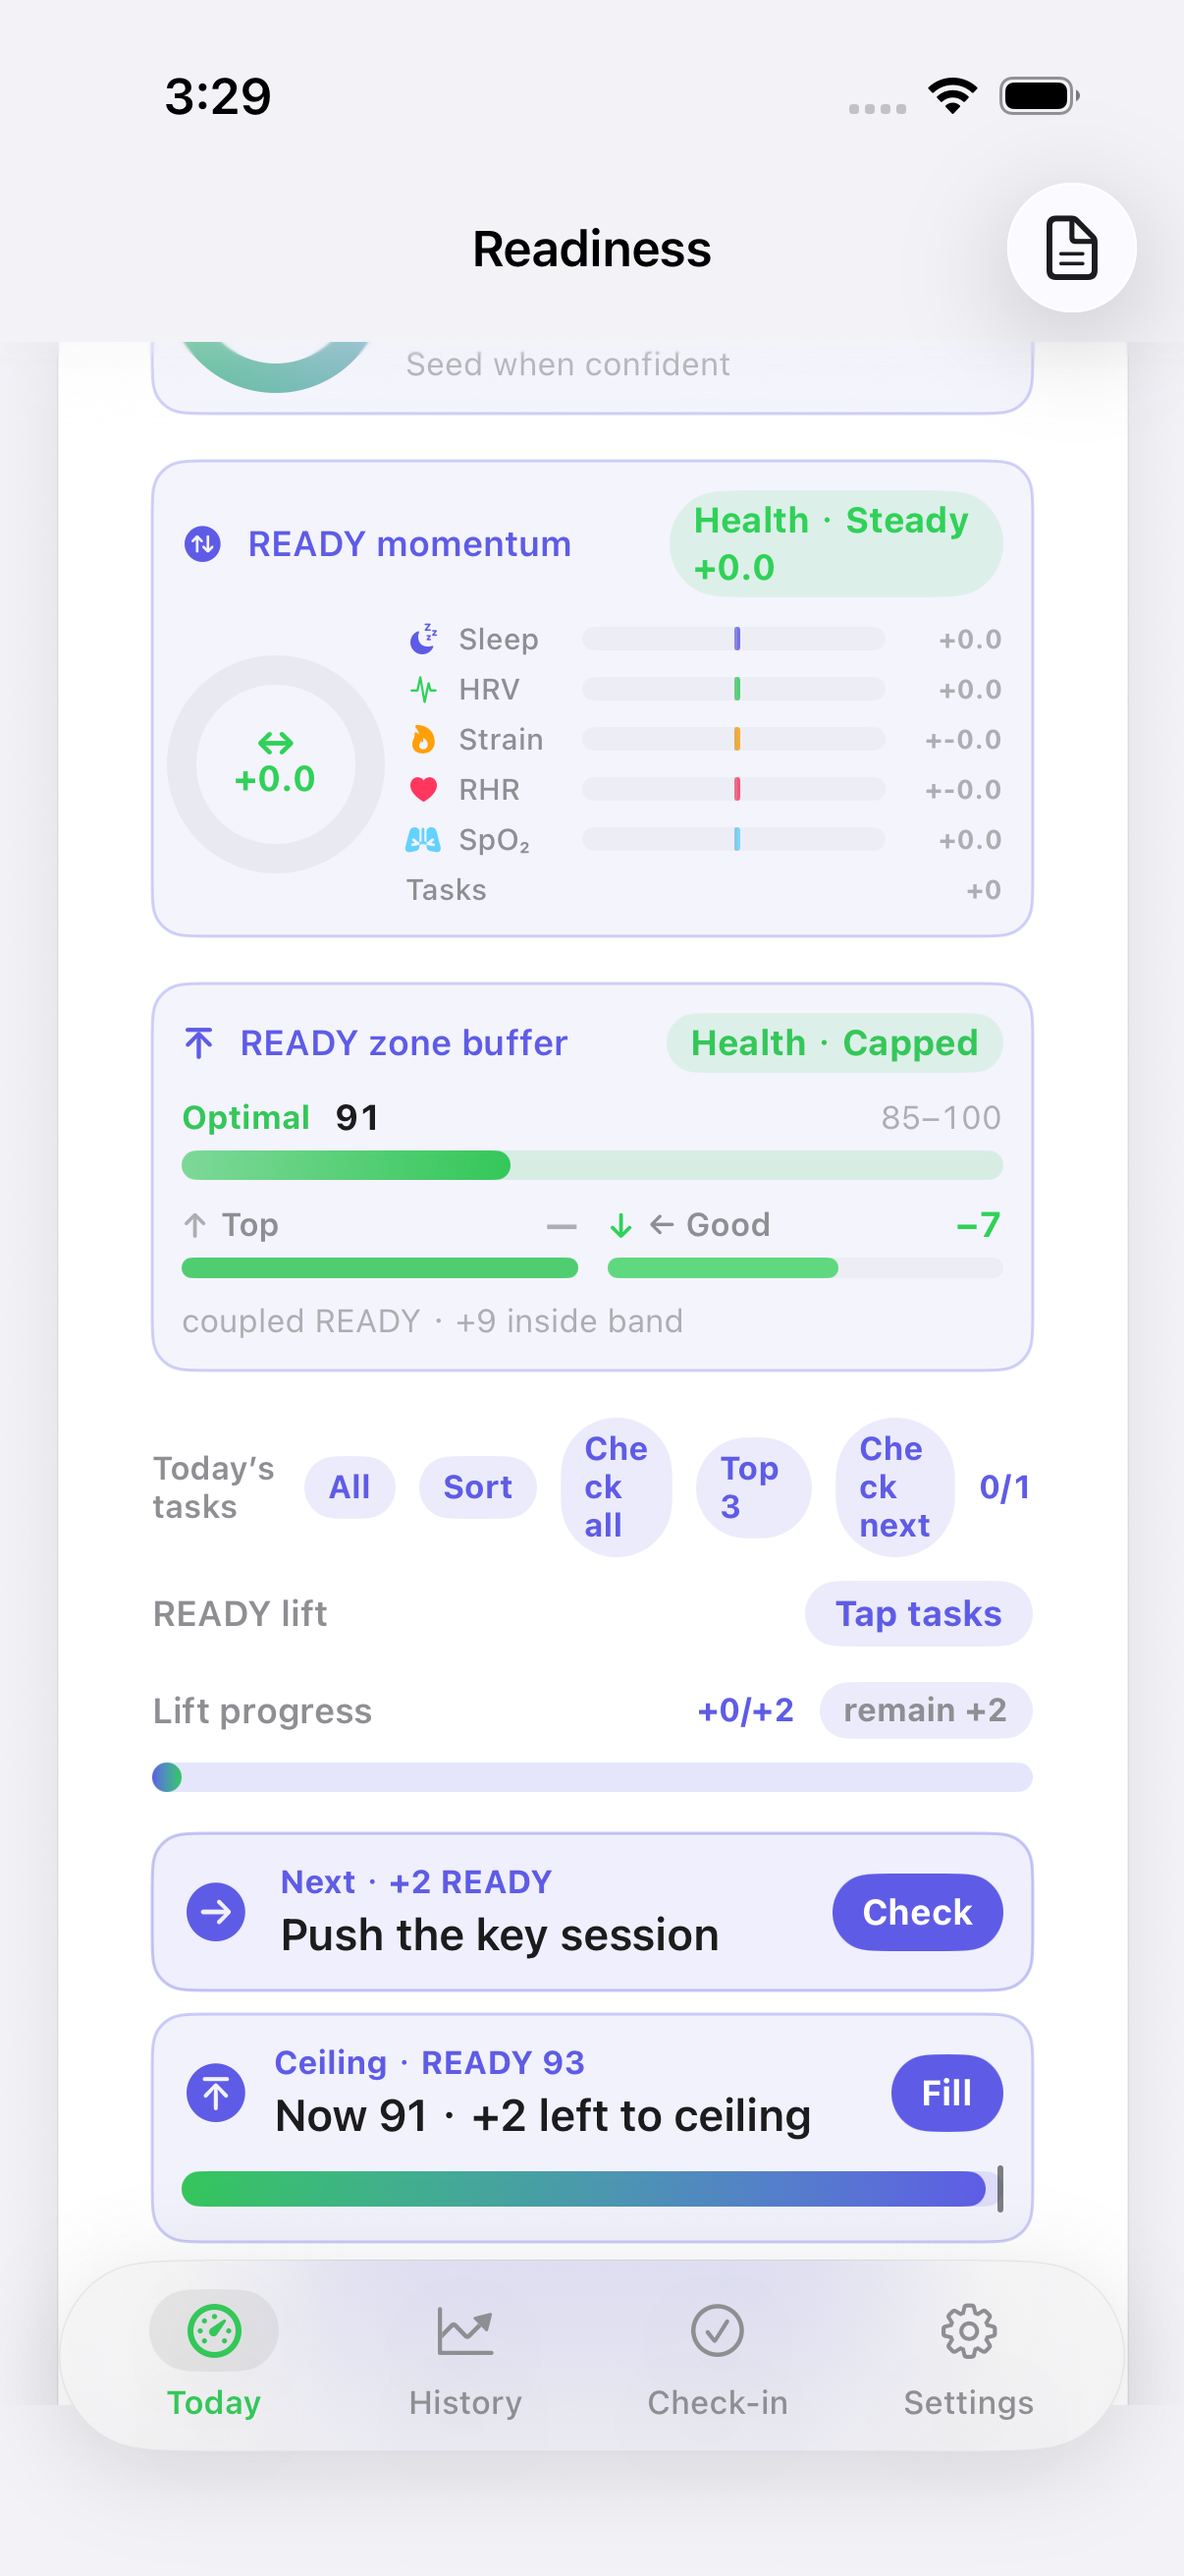
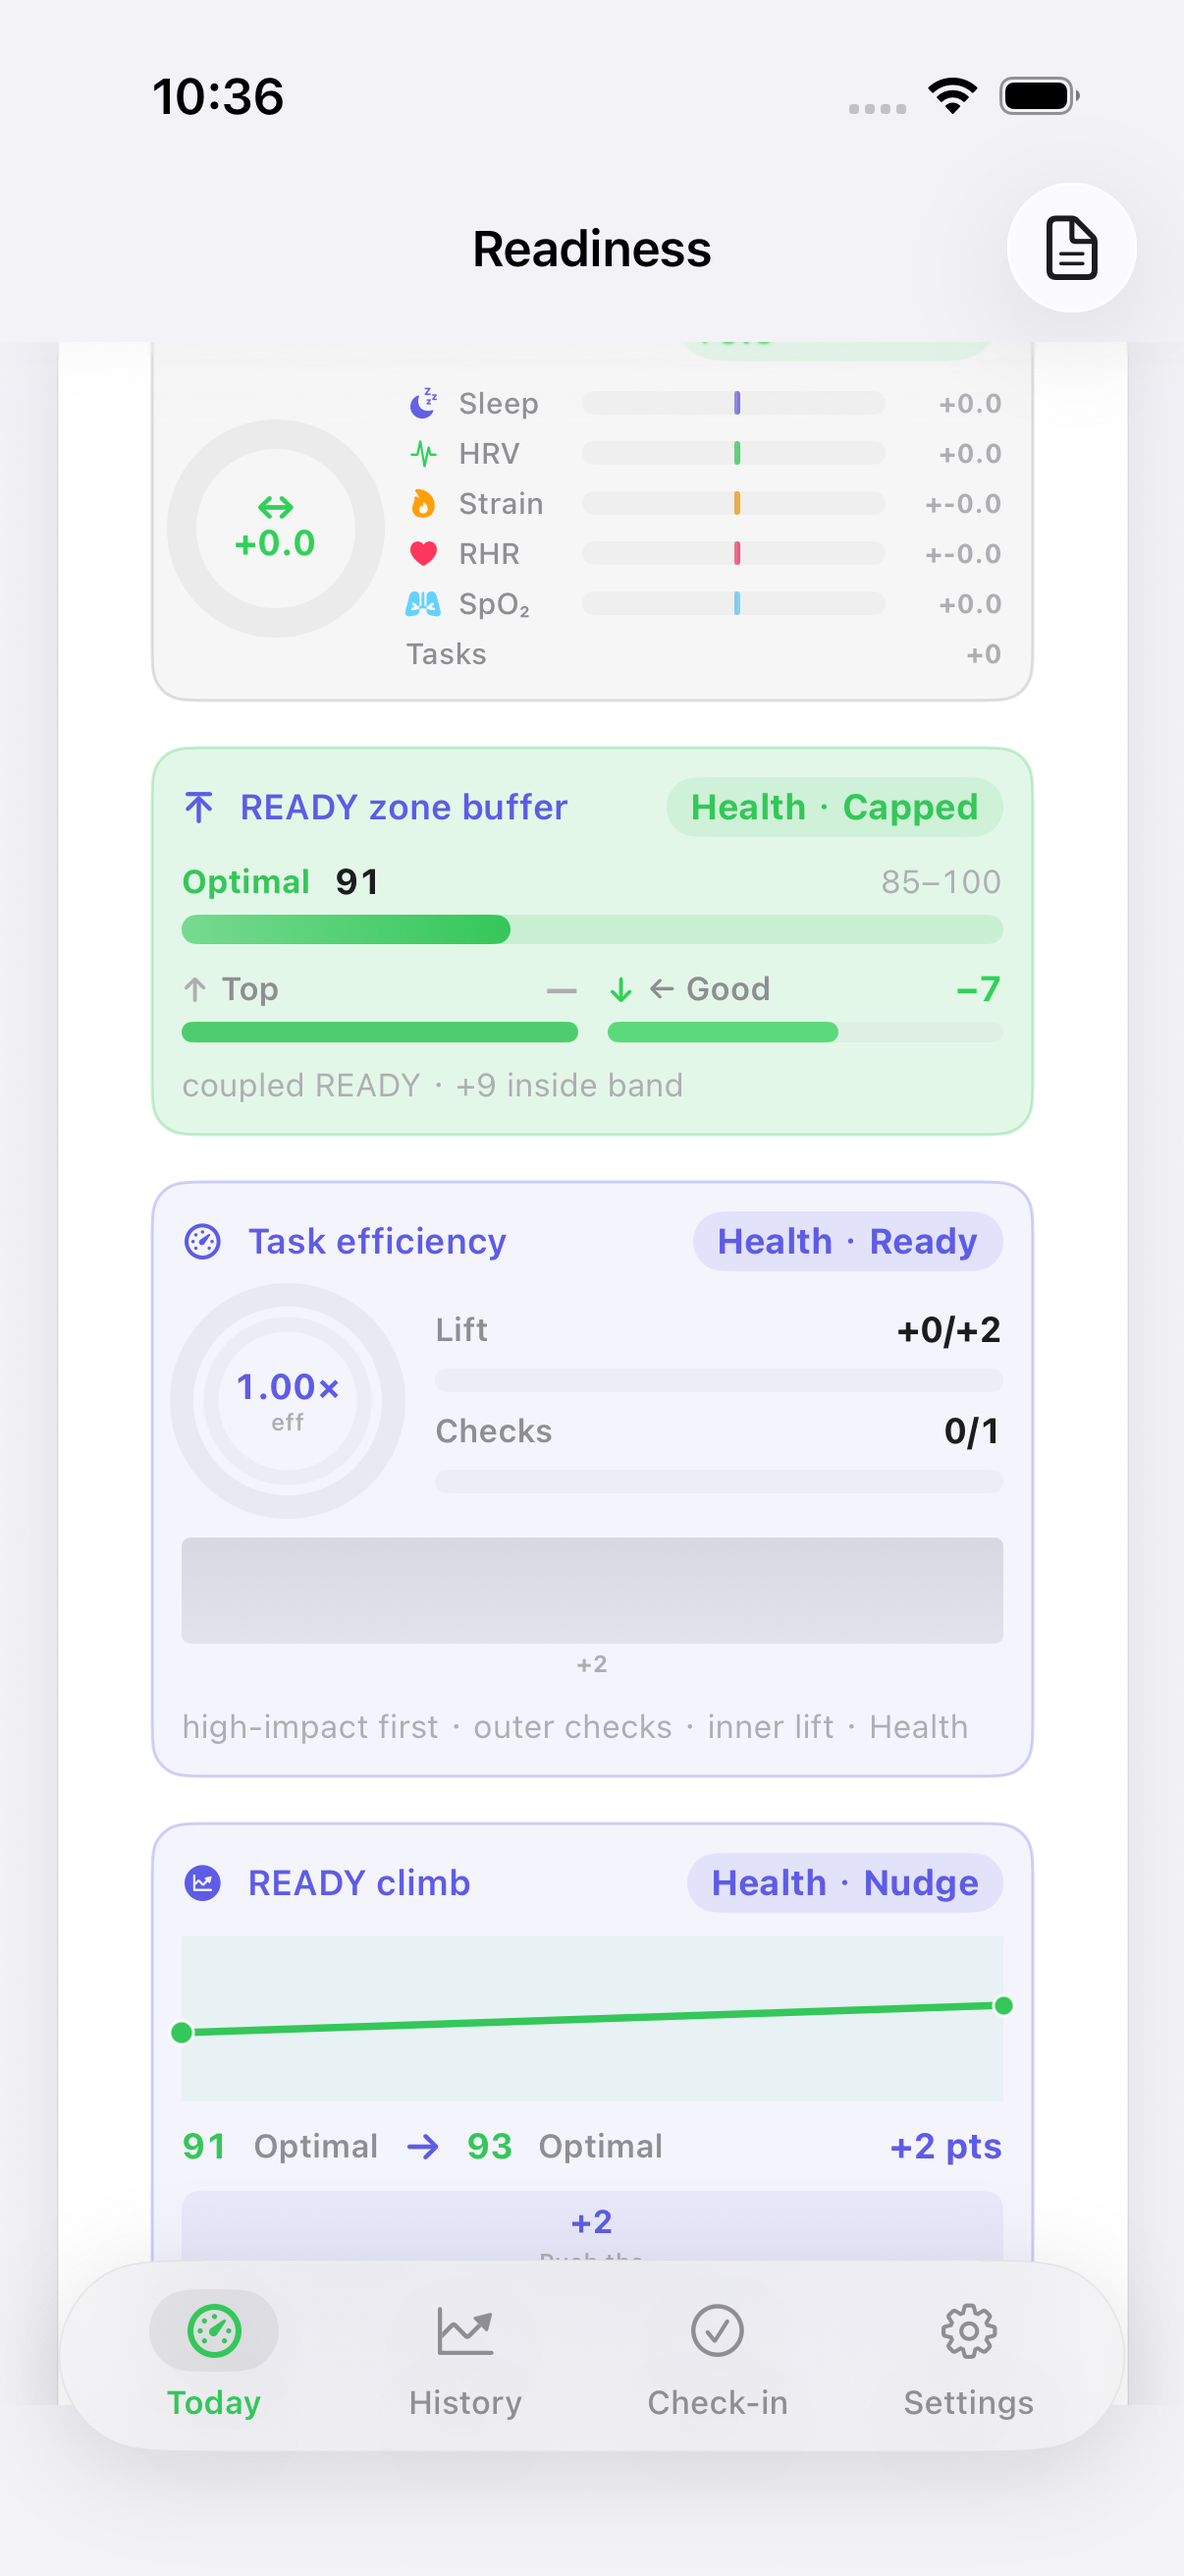
Honest #741: Simulator READY zone buffer (WHOOP wells) (#771)
Restyle the existing Simulator READY zone buffer (`sim.load.ready.buffer`, Honest #609) with WHOOP wells.

- Idle (Hold): ghost/hairline 8%/28%
- Active (Climb): 14% fill + 28% hairline (good)
- Near or Capped: 14% fill + 28% hairline (optimal); no new SurfaceID; no READY formula change

Proof: `testReadinessLoadSimulatorSurface` 771.987s, 0 failures; `.audit/verify-simulator-ready-buffer.png`
model=deepseek-flash (mechanical pattern-copy of #740 wells)

diff --git a/ReadinessTracker/Views/WhoopFeatures/ReadinessLoadSimulatorCard.swift b/ReadinessTracker/Views/WhoopFeatures/ReadinessLoadSimulatorCard.swift
@@ -3178,7 +3178,7 @@ struct ReadinessLoadSimulatorCard: View {
 
 
 
-    /// Honest #609: READY zone buffer — pts to next zone up/down (Fitbit/GH graphics).
+    /// Honest #609 / #741: READY zone buffer — pts to next zone up/down (WHOOP wells; Fitbit/GH graphics).
     @ViewBuilder
     private var readyZoneBuffer: some View {
         let score = projectedCoupled
@@ -3210,6 +3210,8 @@ struct ReadinessLoadSimulatorCard: View {
         } else {
             verb = "Hold"; tone = cur.3
         }
+        let bufIsActive = verb != "Hold"
+        let wellTone: Color = bufIsActive ? tone : RTColor.secondaryText
         return VStack(alignment: .leading, spacing: 8) {
             HStack(spacing: 8) {
                 Image(systemName: "arrow.up.to.line.compact")
@@ -3316,10 +3318,10 @@ struct ReadinessLoadSimulatorCard: View {
                 .foregroundStyle(RTColor.tertiaryText)
         }
         .padding(10)
-        .background(accent.opacity(0.07), in: RoundedRectangle(cornerRadius: 12, style: .continuous))
+        .background(wellTone.opacity(bufIsActive ? 0.14 : 0.08), in: RoundedRectangle(cornerRadius: 12, style: .continuous))
         .overlay(
             RoundedRectangle(cornerRadius: 12, style: .continuous)
-                .stroke(accent.opacity(0.28), lineWidth: 1)
+                .stroke(wellTone.opacity(0.28), lineWidth: 1)
         )
         .accessibilityIdentifier(SurfaceID.readinessSimulatorReadyBuffer)
         .accessibilityLabel("READY zone buffer \(verb) \(cur.0) \(score)")

diff --git a/ReadinessTracker/Design/Theme.swift b/ReadinessTracker/Design/Theme.swift
@@ -405,7 +405,7 @@ enum SurfaceID {
     static let readinessSimulatorBatchLift = "sim.load.tasks.batch.lift"  // Honest #603 / #738
     static let readinessSimulatorSeedConfidence = "sim.load.seed.confidence"  // Honest #605 / #739
     static let readinessSimulatorReadyMomentum = "sim.load.ready.momentum"  // Honest #607 / #740
-    static let readinessSimulatorReadyBuffer = "sim.load.ready.buffer"  // Honest #609
+    static let readinessSimulatorReadyBuffer = "sim.load.ready.buffer"  // Honest #609 / #741
     static let readinessSimulatorTaskEfficiency = "sim.load.tasks.efficiency"  // Honest #611
     static let readinessSimulatorReadyClimb = "sim.load.ready.climb"  // Honest #613
     static let readinessSimulatorReadyHandoff = "sim.load.ready.handoff"  // Honest #615

diff --git a/ReadinessTrackerUITests/SurfacesUITests.swift b/ReadinessTrackerUITests/SurfacesUITests.swift
@@ -10793,7 +10793,7 @@ final class SurfacesUITests: XCTestCase {
         saveShot("verify-simulator-ready-momentum.png")
 
 
-        // Honest #609: READY zone buffer
+        // Honest #609 / #741: READY zone buffer (WHOOP wells)
         let readyBuf = app.descendants(matching: .any)["sim.load.ready.buffer"].firstMatch
         XCTAssertTrue(readyBuf.waitForExistence(timeout: 5)
                       || app.descendants(matching: .any)["sim.load.ready.momentum"].firstMatch.exists

diff --git a/.audit/decision-log-2026-11-04.md b/.audit/decision-log-2026-11-04.md
@@ -282,3 +282,9 @@
 | 21:53 HKT | Honest #740 Simulator READY momentum | prove | started UITest /tmp/RT-DD740; model=deepseek-flash | mid-ship |
 | 22:13 HKT | #740 Simulator READY momentum | prove | UITest suite green /tmp/RT-DD740 (770.289s, 0 failures; observer 782.993s); model=deepseek-flash |
 | 22:13 HKT | #740 Simulator READY momentum | land | proof PNG + receipt; SID sim.load.ready.momentum; PR squash next; model=deepseek-flash |
+
+| 22:24 HKT | Honest #741 Simulator READY zone buffer | model=deepseek-flash | restyle existing sim.load.ready.buffer after READY momentum #740; WHOOP ghost/active/optimal wells; mechanical pattern-copy of #740 wells applied locally (no separate model iterate needed) | mid-ship |
+| 22:24 HKT | Honest #741 Simulator READY zone buffer | prove | started UITest /tmp/RT-DD741; model=deepseek-flash | mid-ship |
+
+| 22:42 HKT | #741 Simulator READY zone buffer | prove | UITest suite green /tmp/RT-DD741 (771.987s, 0 failures; observer 785.497s); model=deepseek-flash |
+| 22:43 HKT | #741 Simulator READY zone buffer | land | proof PNG + receipt; SID sim.load.ready.buffer; PR squash next; model=deepseek-flash |

diff --git a/.audit/features/readiness-simulator-ready-buffer.md b/.audit/features/readiness-simulator-ready-buffer.md
@@ -1,5 +1,6 @@
-# Honest #609: Simulator READY zone buffer
+# Honest #609 / #741: Simulator READY zone buffer
 
-Pts to next zone up/down + inside-band fill (Near/Climb/Hold/Capped).
-SurfaceID: `sim.load.ready.buffer`
+Pts to next zone up/down + inside-band fill (Near/Climb/Hold/Capped) (WHOOP wells).
+Idle (Hold) = ghost/hairline 8%/28%; active (Climb) = 14% fill + 28% hairline (good); Near/Capped = 14% fill + 28% hairline (optimal).
+SurfaceID: `sim.load.ready.buffer` (existing; no new SID)
 Proof: `.audit/verify-simulator-ready-buffer.png`

diff --git a/.audit/readiness-simulator-ready-buffer.md b/.audit/readiness-simulator-ready-buffer.md
@@ -1,5 +1,6 @@
-# Honest #609: Simulator READY zone buffer
+# Honest #609 / #741: Simulator READY zone buffer (WHOOP wells)
 
 Pts to next zone up/down + inside-band fill (Near/Climb/Hold/Capped).
+Idle (Hold) = ghost/hairline 8%/28%; active (Climb) = 14% fill + 28% hairline (good); Near/Capped = 14% fill + 28% hairline (optimal).
 SurfaceID: `sim.load.ready.buffer`
 Proof: `.audit/verify-simulator-ready-buffer.png`

diff --git a/.cursor/skills/verify-readiness-tracker/features/readiness-simulator-ready-buffer.md b/.cursor/skills/verify-readiness-tracker/features/readiness-simulator-ready-buffer.md
@@ -1,5 +1,6 @@
-# Honest #609: Simulator READY zone buffer
+# Honest #609 / #741: Simulator READY zone buffer (WHOOP wells)
 
 Pts to next zone up/down + inside-band fill (Near/Climb/Hold/Capped).
+Idle (Hold) = ghost/hairline 8%/28%; active (Climb) = 14% fill + 28% hairline (good); Near/Capped = 14% fill + 28% hairline (optimal).
 SurfaceID: `sim.load.ready.buffer`
 Proof: `.audit/verify-simulator-ready-buffer.png`
